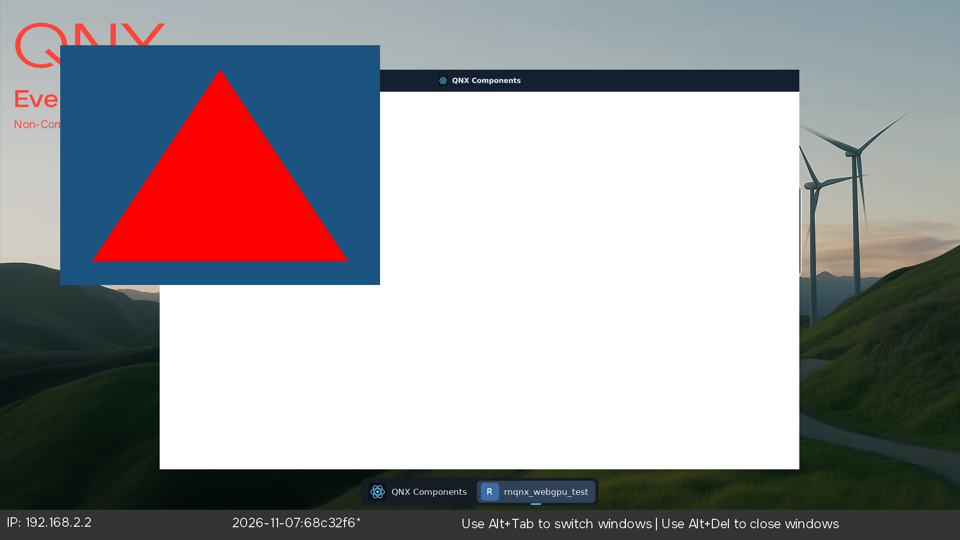
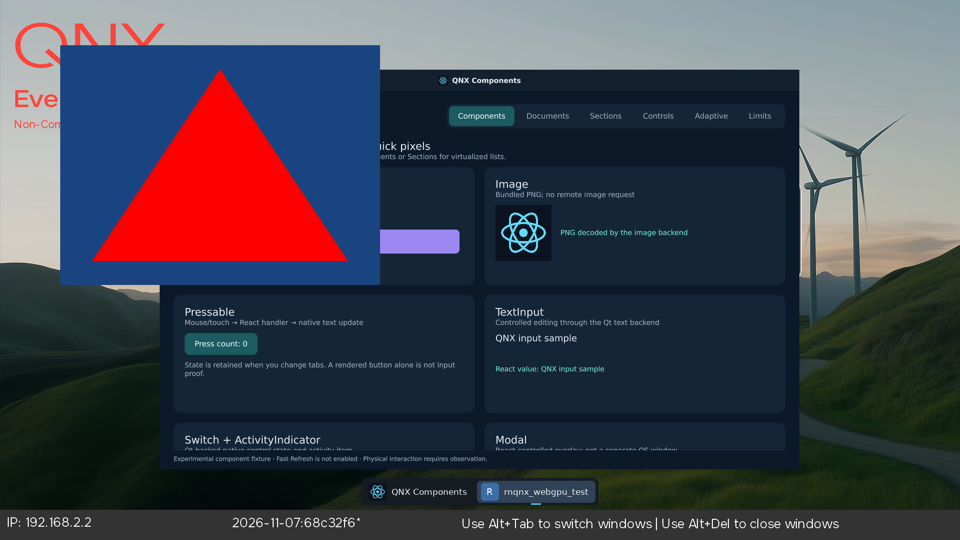
Address review of the stage 5 WebGPU PR
- Narrow patch 0005: only the no-sync-and-no-error case falls back to glFinish;
  other EGL sync errors are returned. The warning flag is atomic.
- Test app: log the errors discarded around the injected loss; fail a stage when
  a frame fails during the screenshot hold.
- Qt compose: one frame in flight between the worker and the GUI thread.
- Add build-dawn-clang.sh so the clang path used for the device run is in the
  repo; run-on-pi.sh keeps the launcher status when the copy back fails.
- Docs: state what the resize and screenshot checks show, add the eglCreateSync
  debug note, refresh the evidence from a rerun of the final binaries, scrub a
  local path from a log.

diff --git a/native/webgpu/testapp/main.cpp b/native/webgpu/testapp/main.cpp
@@ -257,7 +257,9 @@ bool windowStages(GpuContext& gpu, Report& report, const Options& options) {
       report.fail("the injected device loss was not reported");
     } else {
       report.note("loss reported: " + gpu.lossReason());
-      gpu.takeUncapturedErrors();  // anything raised by the loss itself
+      // Anything Dawn raised because of the loss itself is counted and logged, not failed.
+      const int lossErrors = gpu.takeUncapturedErrors();
+      logLine("DEVICE", "uncaptured_errors_during_loss=%d", lossErrors);
       if (!gpu.recreateDevice(error)) {
         report.fail(error);
       } else if (!presenter->create(error)) {
@@ -287,6 +289,7 @@ bool windowStages(GpuContext& gpu, Report& report, const Options& options) {
   }
   std::string writeError;
   writeBmp(options.outDir + "/final-surface.bmp", image, writeError);
+  bool holdOk = true;
   if (options.holdSeconds > 0 && report.allPassed()) {
     std::FILE* ready = std::fopen((options.outDir + "/ready").c_str(), "w");
     if (ready) std::fclose(ready);
@@ -302,9 +305,15 @@ bool windowStages(GpuContext& gpu, Report& report, const Options& options) {
       const double t = (frame++ % 120) / 120.0;
       if (!presenter->drawFrame({0.1, 0.2 + 0.3 * t, 0.5, 1.0}, true, image, error)) {
         logLine("HOLD", "frame failed: %s", error.c_str());
+        holdOk = false;
         break;
       }
     }
+  }
+  if (!holdOk) {
+    report.begin("hold-frames");
+    report.fail("a frame failed while the window was held for the screenshot");
+    report.end();
   }
   return true;
 }

diff --git a/scripts/webgpu/check-screenshot.py b/scripts/webgpu/check-screenshot.py
@@ -1,15 +1,16 @@
 #!/usr/bin/env python3
 """Checks the on-glass screenshot of rnqnx_webgpu_test.
 
-The test window sits at (120, 90), 640x480, and animates its clear colour
-around (26, 51-128, 128) while a red triangle covers the middle. The Screen
+The test window sits at (120, 90), 640x480. It holds a red triangle over a
+blue clear colour whose green channel animates between 51 and 128. The Screen
 `screenshot` tool writes a BMP of the whole display. This reads that BMP with
 the standard library only, then checks that
 
   * the pixel at the window centre is the triangle's red, and
-  * a pixel just inside the window's top-left corner is the blue-ish clear
-    colour (blue clearly greater than red), so the window really shows the
-    WebGPU frame and not the desktop behind it.
+  * a pixel just inside the window's top-left corner is blue-ish (blue clearly
+    greater than red), so the window shows the WebGPU frame and not the desktop
+    behind it. One sample cannot show the animation; the Qt compose test
+    compares two grabs for that.
 
 Usage: check-screenshot.py <screen.bmp> [x y width height]
 Exit status 0 when both checks hold.

diff --git a/native/webgpu/qt-compose/WebGpuFrameSource.h b/native/webgpu/qt-compose/WebGpuFrameSource.h
@@ -24,6 +24,9 @@ class WebGpuFrameSource : public QObject {
   bool start(QString* error);
   void stop();
   quint64 framesProduced() const { return frames_.loadRelaxed(); }
+  // The GUI thread calls this once it has taken the latest frame. At most one
+  // frame is in flight, so a stalled GUI thread cannot make the queue grow.
+  void frameConsumed() { inFlight_.storeRelease(0); }
 
  Q_SIGNALS:
   void frameReady(QImage image);
@@ -40,6 +43,7 @@ class WebGpuFrameSource : public QObject {
   wgpu::Texture target_;
   rnqnx::webgpu::TriangleRenderer renderer_;
   QAtomicInteger<quint64> frames_{0};
+  QAtomicInt inFlight_{0};
   quint64 tick_ = 0;
   QString startError_;
   bool started_ = false;

diff --git a/native/webgpu/qt-compose/WebGpuFrameSource.cpp b/native/webgpu/qt-compose/WebGpuFrameSource.cpp
@@ -73,6 +73,8 @@ void WebGpuFrameSource::stop() {
 }
 
 void WebGpuFrameSource::renderFrame() {
+  // Skip this tick while the GUI thread still holds the previous frame.
+  if (inFlight_.loadAcquire() != 0) return;
   const double phase = static_cast<double>(tick_++ % 90) / 90.0;
   renderer_.encode(gpu_->device(), gpu_->queue(), target_.CreateView(),
                    {0.05, 0.1 + 0.3 * phase, 0.4, 1.0}, true);
@@ -85,5 +87,6 @@ void WebGpuFrameSource::renderFrame() {
   }
   QImage frame(image.pixels.data(), width_, height_, width_ * 4, QImage::Format_RGBA8888);
   frames_.fetchAndAddRelaxed(1);
+  inFlight_.storeRelease(1);
   Q_EMIT frameReady(frame.copy());
 }

diff --git a/native/webgpu/qt-compose/main.cpp b/native/webgpu/qt-compose/main.cpp
@@ -71,8 +71,13 @@ int main(int argc, char** argv) {
                    [&swaps](rnqnx::graphics::GraphicsFrameSwap) { ++swaps; });
 
   WebGpuFrameSource source(512, 384);
-  QObject::connect(&source, &WebGpuFrameSource::frameReady, &item, &WebGpuItem::setFrame,
-                   Qt::QueuedConnection);
+  QObject::connect(
+      &source, &WebGpuFrameSource::frameReady, &item,
+      [&item, &source](QImage image) {
+        item.setFrame(std::move(image));
+        source.frameConsumed();
+      },
+      Qt::QueuedConnection);
   QString error;
   if (!source.start(&error)) {
     logLine("RESULT", "FAIL compose: %s", error.toStdString().c_str());

diff --git a/docs/v2/webgpu-qnx.md b/docs/v2/webgpu-qnx.md
@@ -3,8 +3,7 @@
 Recorded on 2026-11-13. Stage 5 of the [v2 plan](README.md) asks for a pinned
 Dawn/Tint build, a native adapter, reported limits and features, a surface, and
 device-loss recovery, proven on the target with a clear, a draw, a readback and
-a resize/recreate. This page records what was built, what ran on the Raspberry
-Pi 400 and what did not. The [graphics backends page](graphics-backends.md)
+a resize/recreate. This page records the build, the Pi 400 results and the gaps. The [graphics backends page](graphics-backends.md)
 keeps the plan-level view.
 
 Nothing here turns on a v1 gate. The new code is outside the default build, and
@@ -17,18 +16,18 @@ image, QNX 8.0.0 kernel string `2026/06/05`, Mesa V3D 4.2 behind QNX Screen). It
 opened its own Screen window next to the gallery under `rnqnx-winmgr` and passed
 10 of 10 stages:
 
-| Stage                           | What it proves                                                                                                                |
-| ------------------------------- | ----------------------------------------------------------------------------------------------------------------------------- |
-| `adapter-device`                | Dawn found a `V3D 4.2` OpenGL ES adapter and made a device                                                                    |
-| `offscreen-render-readback`     | A clear and a triangle rendered to a texture and read back: corner and centre pixels match the expected colours               |
-| `compute`                       | A WGSL compute pass doubled 4096 `u32` values and every value read back correctly                                             |
-| `window-and-surface-create`     | A Screen window plus a `wgpu::Surface` configured on it                                                                       |
-| `render-to-swapchain-texture`   | Clear and triangle rendered into the surface texture and read back before `Present()`                                         |
-| `resize`                        | 800x600, 480x360 and 640x480: Screen reports the new window and buffer size and the swap chain texture has the same size      |
-| `surface-recreate`              | The surface dropped and created again from the same window                                                                    |
-| `window-recreate`               | The Screen window destroyed and created again, with a new surface                                                             |
-| `device-loss-recovery-injected` | `Device::ForceLoss` reported through the loss callback, a new device from the same adapter, surface, render and compute again |
-| `no-uncaptured-errors`          | Dawn raised no uncaptured error outside the expected loss                                                                     |
+| Stage                           | What it proves                                                                                                                                                                                                                                   |
+| ------------------------------- | ------------------------------------------------------------------------------------------------------------------------------------------------------------------------------------------------------------------------------------------------ |
+| `adapter-device`                | Dawn found a `V3D 4.2` OpenGL ES adapter and made a device                                                                                                                                                                                       |
+| `offscreen-render-readback`     | A clear and a triangle rendered to a texture and read back: corner and centre pixels match the expected colours                                                                                                                                  |
+| `compute`                       | A WGSL compute pass doubled 4096 `u32` values and every value read back correctly                                                                                                                                                                |
+| `window-and-surface-create`     | A Screen window plus a `wgpu::Surface` configured on it                                                                                                                                                                                          |
+| `render-to-swapchain-texture`   | Clear and triangle rendered into the surface texture and read back before `Present()`                                                                                                                                                            |
+| `resize`                        | 800x600, 480x360 and 640x480: each requested size was applied, Screen reports it for the window and its buffers, and the swap chain texture has the same size. Both Screen values are ones the app set; the stage does not query the EGL surface |
+| `surface-recreate`              | The surface dropped and created again from the same window                                                                                                                                                                                       |
+| `window-recreate`               | The Screen window destroyed and created again, with a new surface                                                                                                                                                                                |
+| `device-loss-recovery-injected` | `Device::ForceLoss` reported through the loss callback, a new device from the same adapter, surface, render and compute again                                                                                                                    |
+| `no-uncaptured-errors`          | Dawn raised no uncaptured error outside the expected loss                                                                                                                                                                                        |
 
 The final result line is `RNQNX_WEBGPU RESULT PASS stages=10 passed=10
 verified=1`. The raw log is
@@ -37,8 +36,9 @@ verified=1`. The raw log is
 The on-glass check is separate. The stock `screenshot` tool captured the whole
 1920x1080 display while the window was held on screen.
 [check-screenshot.py](../../scripts/webgpu/check-screenshot.py) reads that
-bitmap and found the triangle's red at the window centre and the animated blue
-clear colour just inside the window corner
+bitmap and found the triangle's red at the window centre and the blue clear
+colour just inside the window corner (one sample each, so it does not show the
+animation)
 ([screenshot-check.txt](../evidence/webgpu-qnx-2026-11-13/screenshot-check.txt)).
 The image below is a downscaled copy; the gallery window behind it belongs to
 another test session.
@@ -55,13 +55,16 @@ another test session.
 - **Nothing was measured for speed.** Every submission waits on `glFinish`
   (patch 0005). Frame times, upload costs and the cost of the readback copies
   are unknown.
-- **One run on one board.** The ten stages passed in each of the final runs on
-  one Pi 400. No soak, no repeated cold boots, no second board.
+- **One board, a few runs.** The committed log is one run of the final
+  binary. Earlier runs of the same code also passed (10 of 10 with the loss
+  stage, 9 of 9 without it), but their logs are not committed. No soak, no
+  repeated cold boots, no second board.
 - **Only 640x480-class windows ran.** A fullscreen 1920x1080 surface was not
-  tried.
-- **Qt Quick composition ran through a CPU copy**, not zero-copy, and it was
-  checked with `QQuickWindow::grabWindow()` (Qt's own render output), not with a
-  display screenshot.
+  tried, and the on-glass screenshot covers only the final 640x480 frame, not
+  the resized ones.
+- **Qt Quick composition ran through a CPU copy.** It was checked with
+  `QQuickWindow::grabWindow()`, Qt's own render output, and not with a display
+  screenshot.
 - **Vulkan did not run at all**; the reasons are below.
 
 ## What the board offers
@@ -130,44 +133,54 @@ Mismatches with those upstream closures, all of which stage 6 has to settle:
 [`patches/webgpu/dawn/`](../../patches/webgpu/dawn) holds the patches.
 `scripts/webgpu/fetch-dawn.sh` applies them to the pinned checkout.
 
-| Patch                                   | Change                                                                                                                                  | Risk                                                                                                       |
-| --------------------------------------- | --------------------------------------------------------------------------------------------------------------------------------------- | ---------------------------------------------------------------------------------------------------------- |
-| 0001 `qnx-platform-macro`               | `src/utils/platform.h` knows `__QNX__` and treats it as POSIX (not Linux)                                                               | Small                                                                                                      |
-| 0002 `qnx-screen-window-surface`        | `SurfaceSourceAndroidNativeWindow::window` carries a `screen_window_t` on QNX; the EGL swap chain passes it to `eglCreateWindowSurface` | Reuses an Android sType for another meaning. A dedicated sType would need a `dawn.json` change; deferred   |
-| 0003 `gles-optional-context-robustness` | `EGL_EXT_create_context_robustness` is optional: Dawn logs a warning and creates the context without robust access                      | Tint still bounds-checks shaders, but the driver reports no GPU reset, so real device loss is not detected |
-| 0004 `qnx-system-utils`                 | `GetExecutablePath`/`GetModulePath` for QNX (`/proc/self/exefile`, `dladdr`)                                                            | Small                                                                                                      |
-| 0005 `gles-fence-fallback`              | When `eglCreateSyncKHR` returns no sync, `Queue::SubmitFenceSync` calls `glFinish` and treats the serial as complete                    | Every submission blocks until the GPU is done. **Not root-caused**: see below                              |
+| Patch                                   | Change                                                                                                                                                                       | Risk                                                                                                                                                                                                |
+| --------------------------------------- | ---------------------------------------------------------------------------------------------------------------------------------------------------------------------------- | --------------------------------------------------------------------------------------------------------------------------------------------------------------------------------------------------- |
+| 0001 `qnx-platform-macro`               | `src/utils/platform.h` knows `__QNX__` and treats it as POSIX (not Linux)                                                                                                    | Small                                                                                                                                                                                               |
+| 0002 `qnx-screen-window-surface`        | `SurfaceSourceAndroidNativeWindow::window` carries a `screen_window_t` on QNX; the EGL swap chain passes it to `eglCreateWindowSurface`                                      | Reuses an Android sType for another meaning. A dedicated sType would need a `dawn.json` change; deferred                                                                                            |
+| 0003 `gles-optional-context-robustness` | `EGL_EXT_create_context_robustness` is optional: Dawn logs a warning and creates the context without robust access                                                           | Tint still bounds-checks shader memory, but the context lacks driver-level robust buffer access (for example vertex fetch) and the driver reports no GPU reset, so real device loss is not detected |
+| 0004 `qnx-system-utils`                 | `GetExecutablePath`/`GetModulePath` for QNX (`/proc/self/exefile`, `dladdr`)                                                                                                 | Small                                                                                                                                                                                               |
+| 0005 `gles-fence-fallback`              | When `eglCreateSyncKHR` returns no sync and no EGL error, `Queue::SubmitFenceSync` calls `glFinish` and treats the serial as complete; any other EGL error is still returned | Every submission blocks until the GPU is done. A future driver that returns no sync and no error for another reason would be masked. **Not root-caused**: see below                                 |
 
 About patch 0005. On the Pi, `eglCreateSyncKHR` succeeds in a plain EGL
-context (the probe tried fresh, idle, surfaceless and no-config contexts, with
-and without prior GL work) but returns `EGL_NO_SYNC` with `EGL_SUCCESS` inside
-Dawn's context, for both fence and reusable types, even after `glFlush`. The
-difference between the two contexts was not found. Without a fallback the first
-submit marks the device lost. The fallback is a workaround; correct completion
-tracking needs the real cause.
+context: the probe tried fresh, idle, surfaceless and no-config contexts, with
+and without prior GL work
+([gpu-probe-pi400.txt](../evidence/webgpu-qnx-2026-11-13/gpu-probe-pi400.txt),
+section D). Inside Dawn's context the same call returned `EGL_NO_SYNC` with
+`EGL_SUCCESS`, and the device was lost on the first submit. A temporary debug
+build of Dawn printed the state around that call
+([dawn-eglsync-debug.txt](../evidence/webgpu-qnx-2026-11-13/dawn-eglsync-debug.txt);
+the debug build is not committed): a context was current, the display matched,
+and the fence and reusable types both still failed after `glFlush` and
+`glFinish`. The difference between the two contexts was not found. The patch
+is a workaround; correct completion tracking needs the real cause.
 
 ## Build recipe
 
-Two compilers produce the same sources; the choice is about speed.
+The same sources build with two compilers. The container's gcc is the
+repository's toolchain; clang was faster here.
 
 1. `scripts/webgpu/fetch-dawn.sh <dir>` fetches the pinned commit and applies
    the patches.
 2. `scripts/webgpu/build-dawn.sh <dir> <build>` configures and builds Dawn with
    the repository's SDP gcc toolchain (`cmake/toolchains/qnx-8.0.cmake`). Run it
-   in the `qnx805-build` container; it needs network on first configure and about
-   20 GB, which the container has and the Mac does not. It compiled the first
-   hundred or so objects without source errors, but the SDP's gcc is an x86-64
-   binary running under Rosetta, and with the container shared with other builds
-   (load average above 30) it finished too few files per hour to complete.
-3. `cmake/toolchains/qnx-8.0-clang.cmake` builds the same tree with LLVM clang
-   against the SDP sysroot. **The device run used this path**: Homebrew LLVM 23.1
-   on the Mac, build tree on a 2 GB RAM disk because the Mac volume had about
-   3 GB free, objects archived by `llvm-ar`. That deviates from "build in the VM";
-   the VM could not finish the build in useful time. The clang toolchain needs
-   three workarounds, each in the file or in `native/webgpu/shim/LibcxxShim.cpp`:
-   the target triple has no QNX operating system (the file supplies the macros the
-   SDP's gcc predefines), `QNX_LIBM_BUILTINS` for libc++'s math wrappers, and a
-   shim for three libc++ members that the SDP's `libc++.so` does not export
+   in the `qnx805-build` container; it needs network on first configure and
+   about 20 GB, which the container has and the Mac does not. The SDP's gcc is
+   an x86-64 binary running under Rosetta. With the container shared with other
+   builds (load average above 30 while this ran), this build had completed
+   fewer than half of its steps after about two hours, so it was stopped. It hit
+   one source error before that (patch 0001), and it reported no other source
+   errors in the files it reached.
+3. `scripts/webgpu/build-dawn-clang.sh <dir> <build>` builds the same tree with
+   LLVM clang (`cmake/toolchains/qnx-8.0-clang.cmake`) against the SDP sysroot.
+   **The device run used this path**: Homebrew LLVM 23.1 on the Mac at `-O1`,
+   with the build tree on a 2 GB RAM disk because the Mac volume had about 3 GB
+   free, and objects archived by `llvm-ar`. The result was a 25.7 MB
+   `libwebgpu_dawn.a`. That departs from "build in the VM": the VM could not
+   finish the build in useful time. The clang toolchain needs three
+   workarounds, in the toolchain file and in `native/webgpu/shim/LibcxxShim.cpp`:
+   the target triple has no QNX operating system, so the file supplies the macros
+   the SDP's gcc predefines; `QNX_LIBM_BUILTINS` for libc++'s math wrappers; and
+   a shim for three libc++ members that the SDP's `libc++.so` does not export
    (`basic_ostringstream::str() const &`, `basic_stringstream::str() const &`,
    and an untagged alias for `basic_ifstream(const string&, openmode)`, which
    clang mangles without the ABI tag that gcc adds).
@@ -192,8 +205,8 @@ released the old EGL surface.
 
 ## The test app
 
-`native/webgpu/testapp` is a small C++20 program, not part of the gallery. It
-logs lines that start with `RNQNX_WEBGPU` and exits non-zero unless every stage
+`native/webgpu/testapp` is a small C++20 program that is separate from the
+gallery. It logs lines that start with `RNQNX_WEBGPU` and exits non-zero unless every stage
 passed. `--backend=null` runs against Dawn's null backend, which executes no
 GPU work: it validates the API calls and the WGSL, and the result line says
 `verified=0`.
@@ -218,17 +231,18 @@ Composition into the Qt Quick scene graph is a separate path.
 `native/webgpu/qt-compose` renders on a worker thread that owns the Dawn
 device (so Dawn never makes its EGL context current under Qt's), reads each
 frame back, and uploads it as a `QSGTexture` in a Qt Quick item.
-`QtGraphicsSurface` from stage 1 observes the window. It copies pixels through
-the CPU; a zero-copy path would import a Qt-owned texture into Dawn as an EGL
-image, which this stage did not attempt. That path ran on the Pi 400
+`QtGraphicsSurface` from stage 1 observes the window. The path copies pixels
+through the CPU. A zero-copy path would import a Qt-owned texture into Dawn as
+an EGL image, which this stage did not attempt. At most one frame is in flight
+between the worker and the GUI thread. The path ran on the Pi 400
 ([qt-compose-run.log](../evidence/webgpu-qnx-2026-11-13/qt-compose-run.log)):
 `QtGraphicsSurface` reported `Initialized` with backend `OpenGL` for the
-640x480 window, 249 frames were produced and uploaded in eight seconds, and a
+640x480 window, 259 frames were produced in eight seconds, and a
 `grabWindow()` of the scene showed the triangle's red at the item centre, a black
-window corner, and an item corner whose green channel moved from 53 to 83 between
+window corner, and an item corner whose green channel moved from 48 to 91 between
 two grabs, so new frames reach the scene graph. The result line is
-`RESULT PASS compose red_center=1 black_window_corner=1 animated=1`. Only this one
-run exists. Frame time, copy cost and CPU load were not measured.
+`RESULT PASS compose red_center=1 black_window_corner=1 animated=1`. An earlier run of
+the same test, before the one-frame limit, passed as well. Frame time, copy cost and CPU load were not measured.
 
 ## Device loss and recovery
 
@@ -243,10 +257,12 @@ Pi with an injected loss. It did not run with a real one.
 
 `.github/workflows/webgpu-host.yml` builds the pinned Dawn on Linux with only
 the null backend and runs the test app with `--backend=null --headless`. It is
-manual and weekly, not a pull request check: a Dawn build takes well over half
-an hour on a hosted runner. It was **not run** before this page was written, so
-no hosted result backs it. The null backend cannot confirm pixels or compute
-values; only the Pi run does.
+manual and weekly. It is not a pull request check, because a Dawn build takes
+well over half an hour on a hosted runner. It was **not run** before this page
+was written, so no hosted result backs it. It shows that the patches apply and
+that the null backend builds; the OpenGL ES files the patches touch are not
+compiled there. The null backend cannot confirm pixels or compute values; only
+the Pi run does.
 
 ## For stage 6
 
